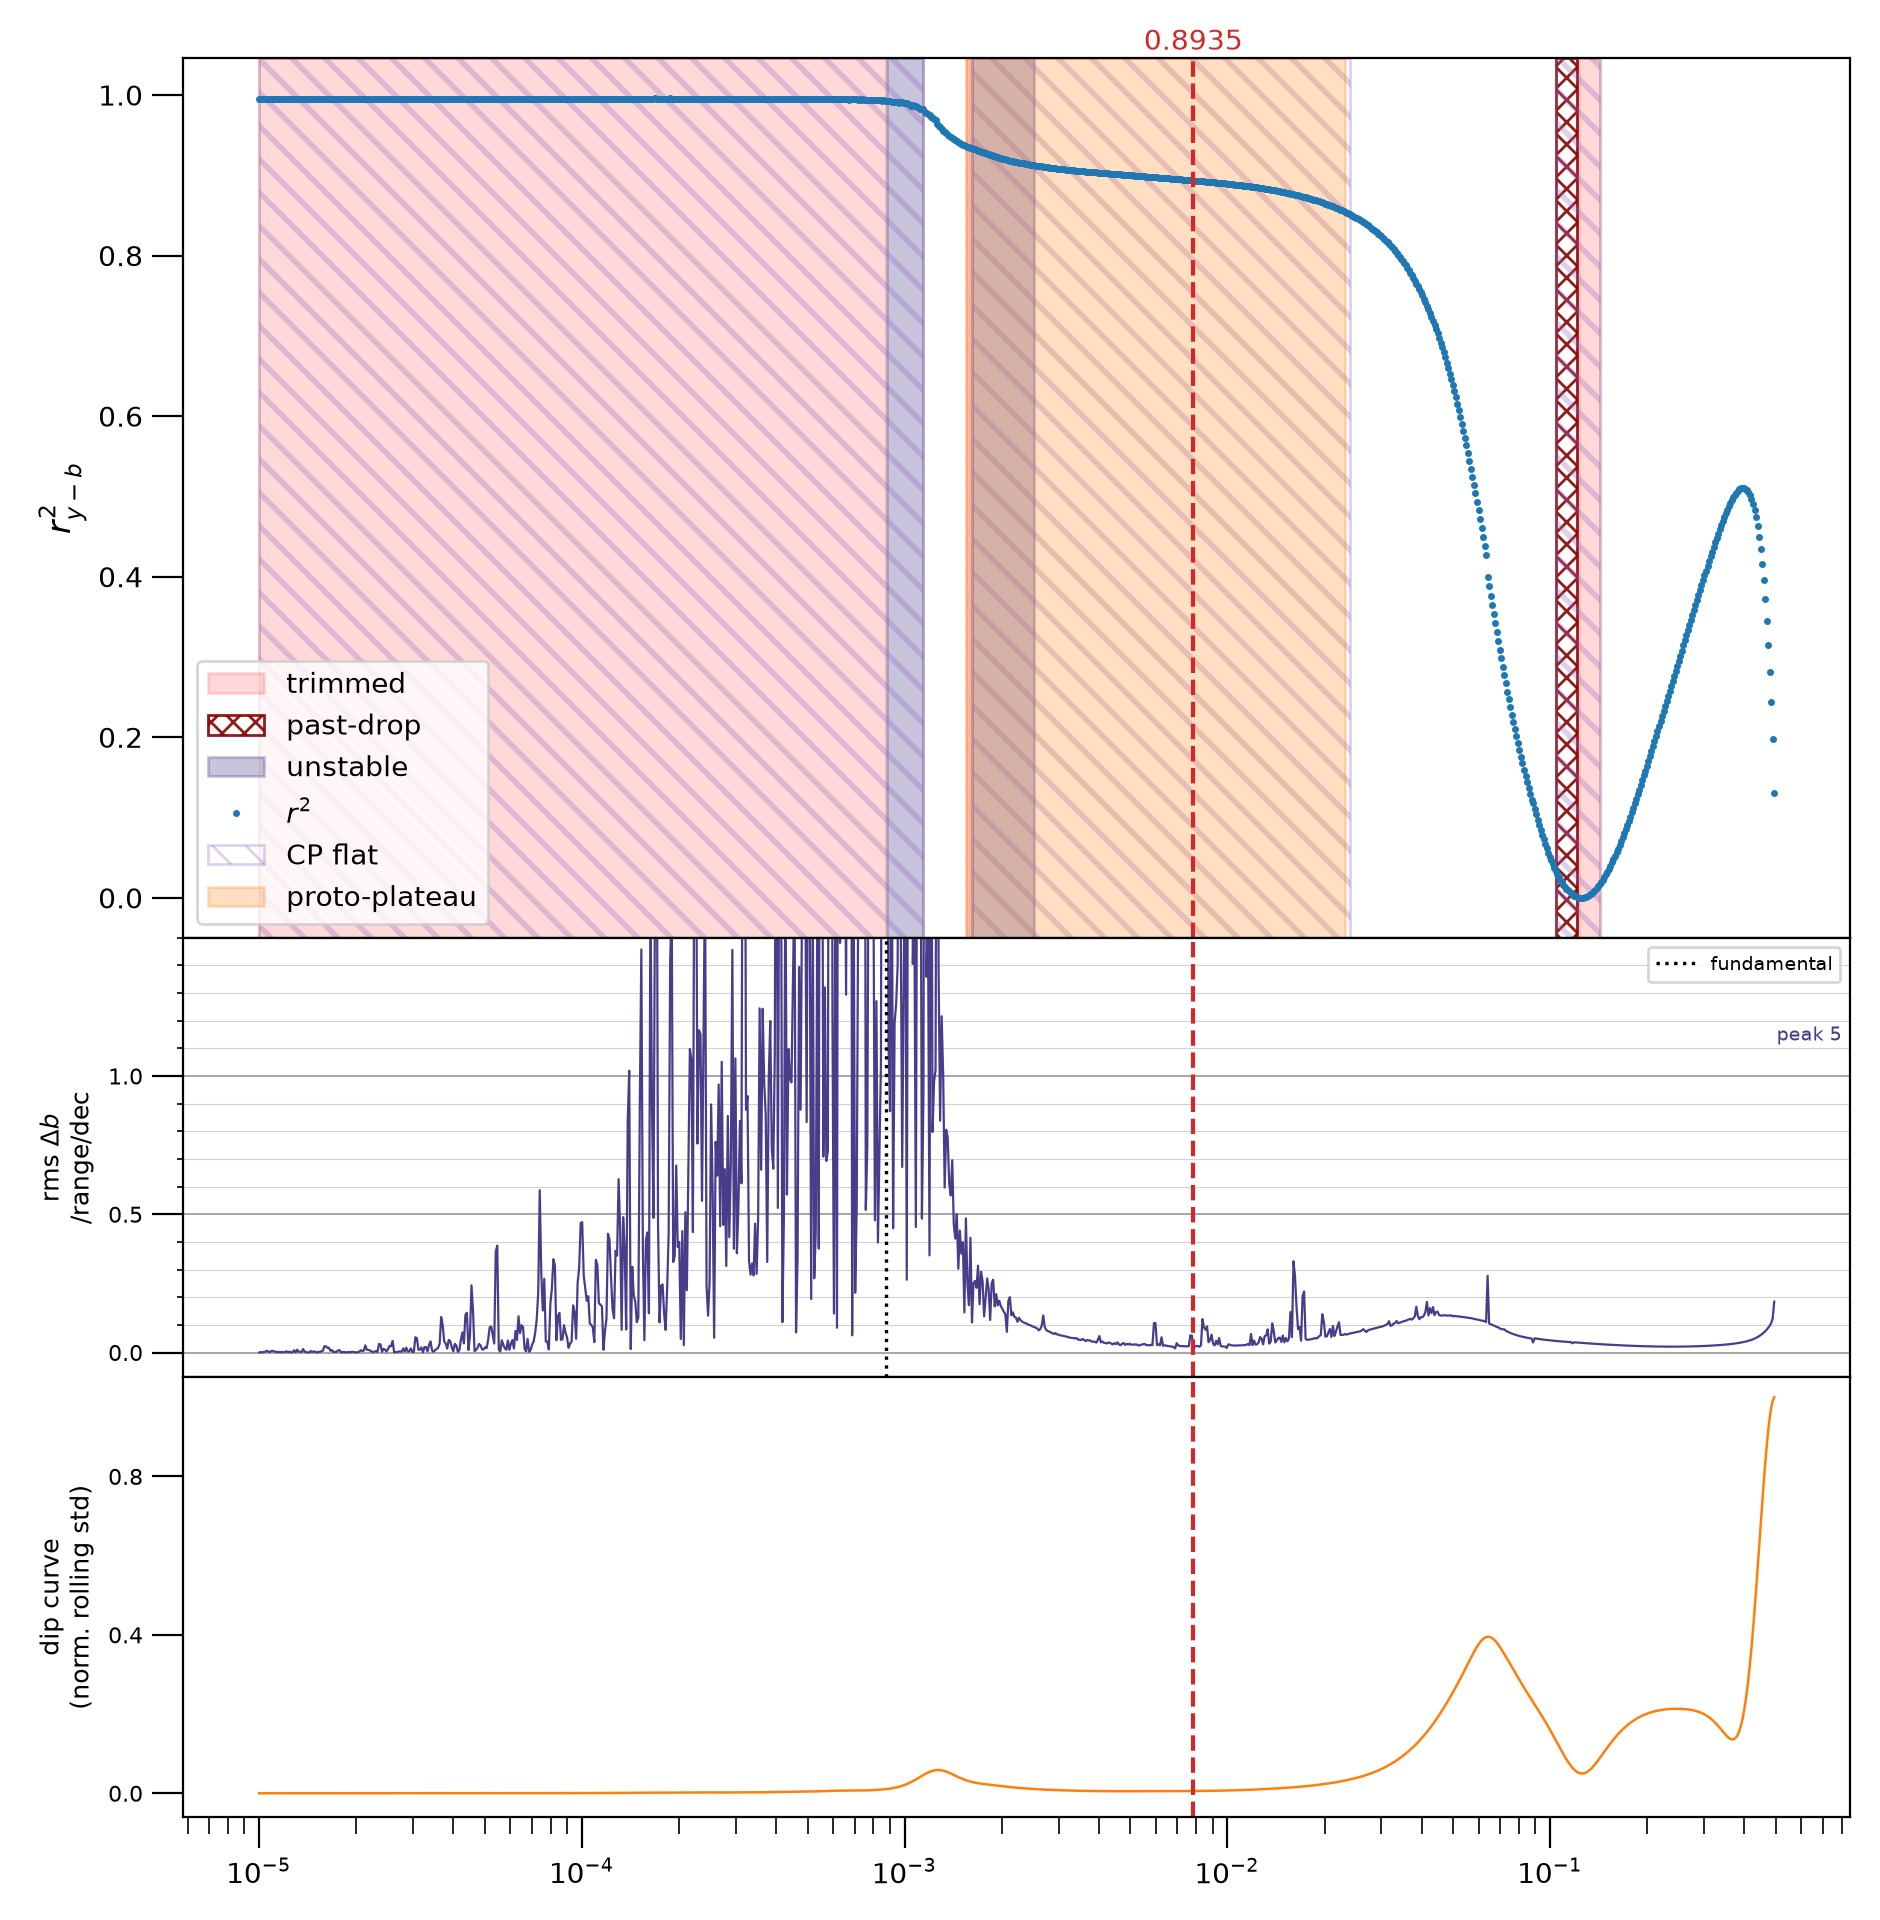
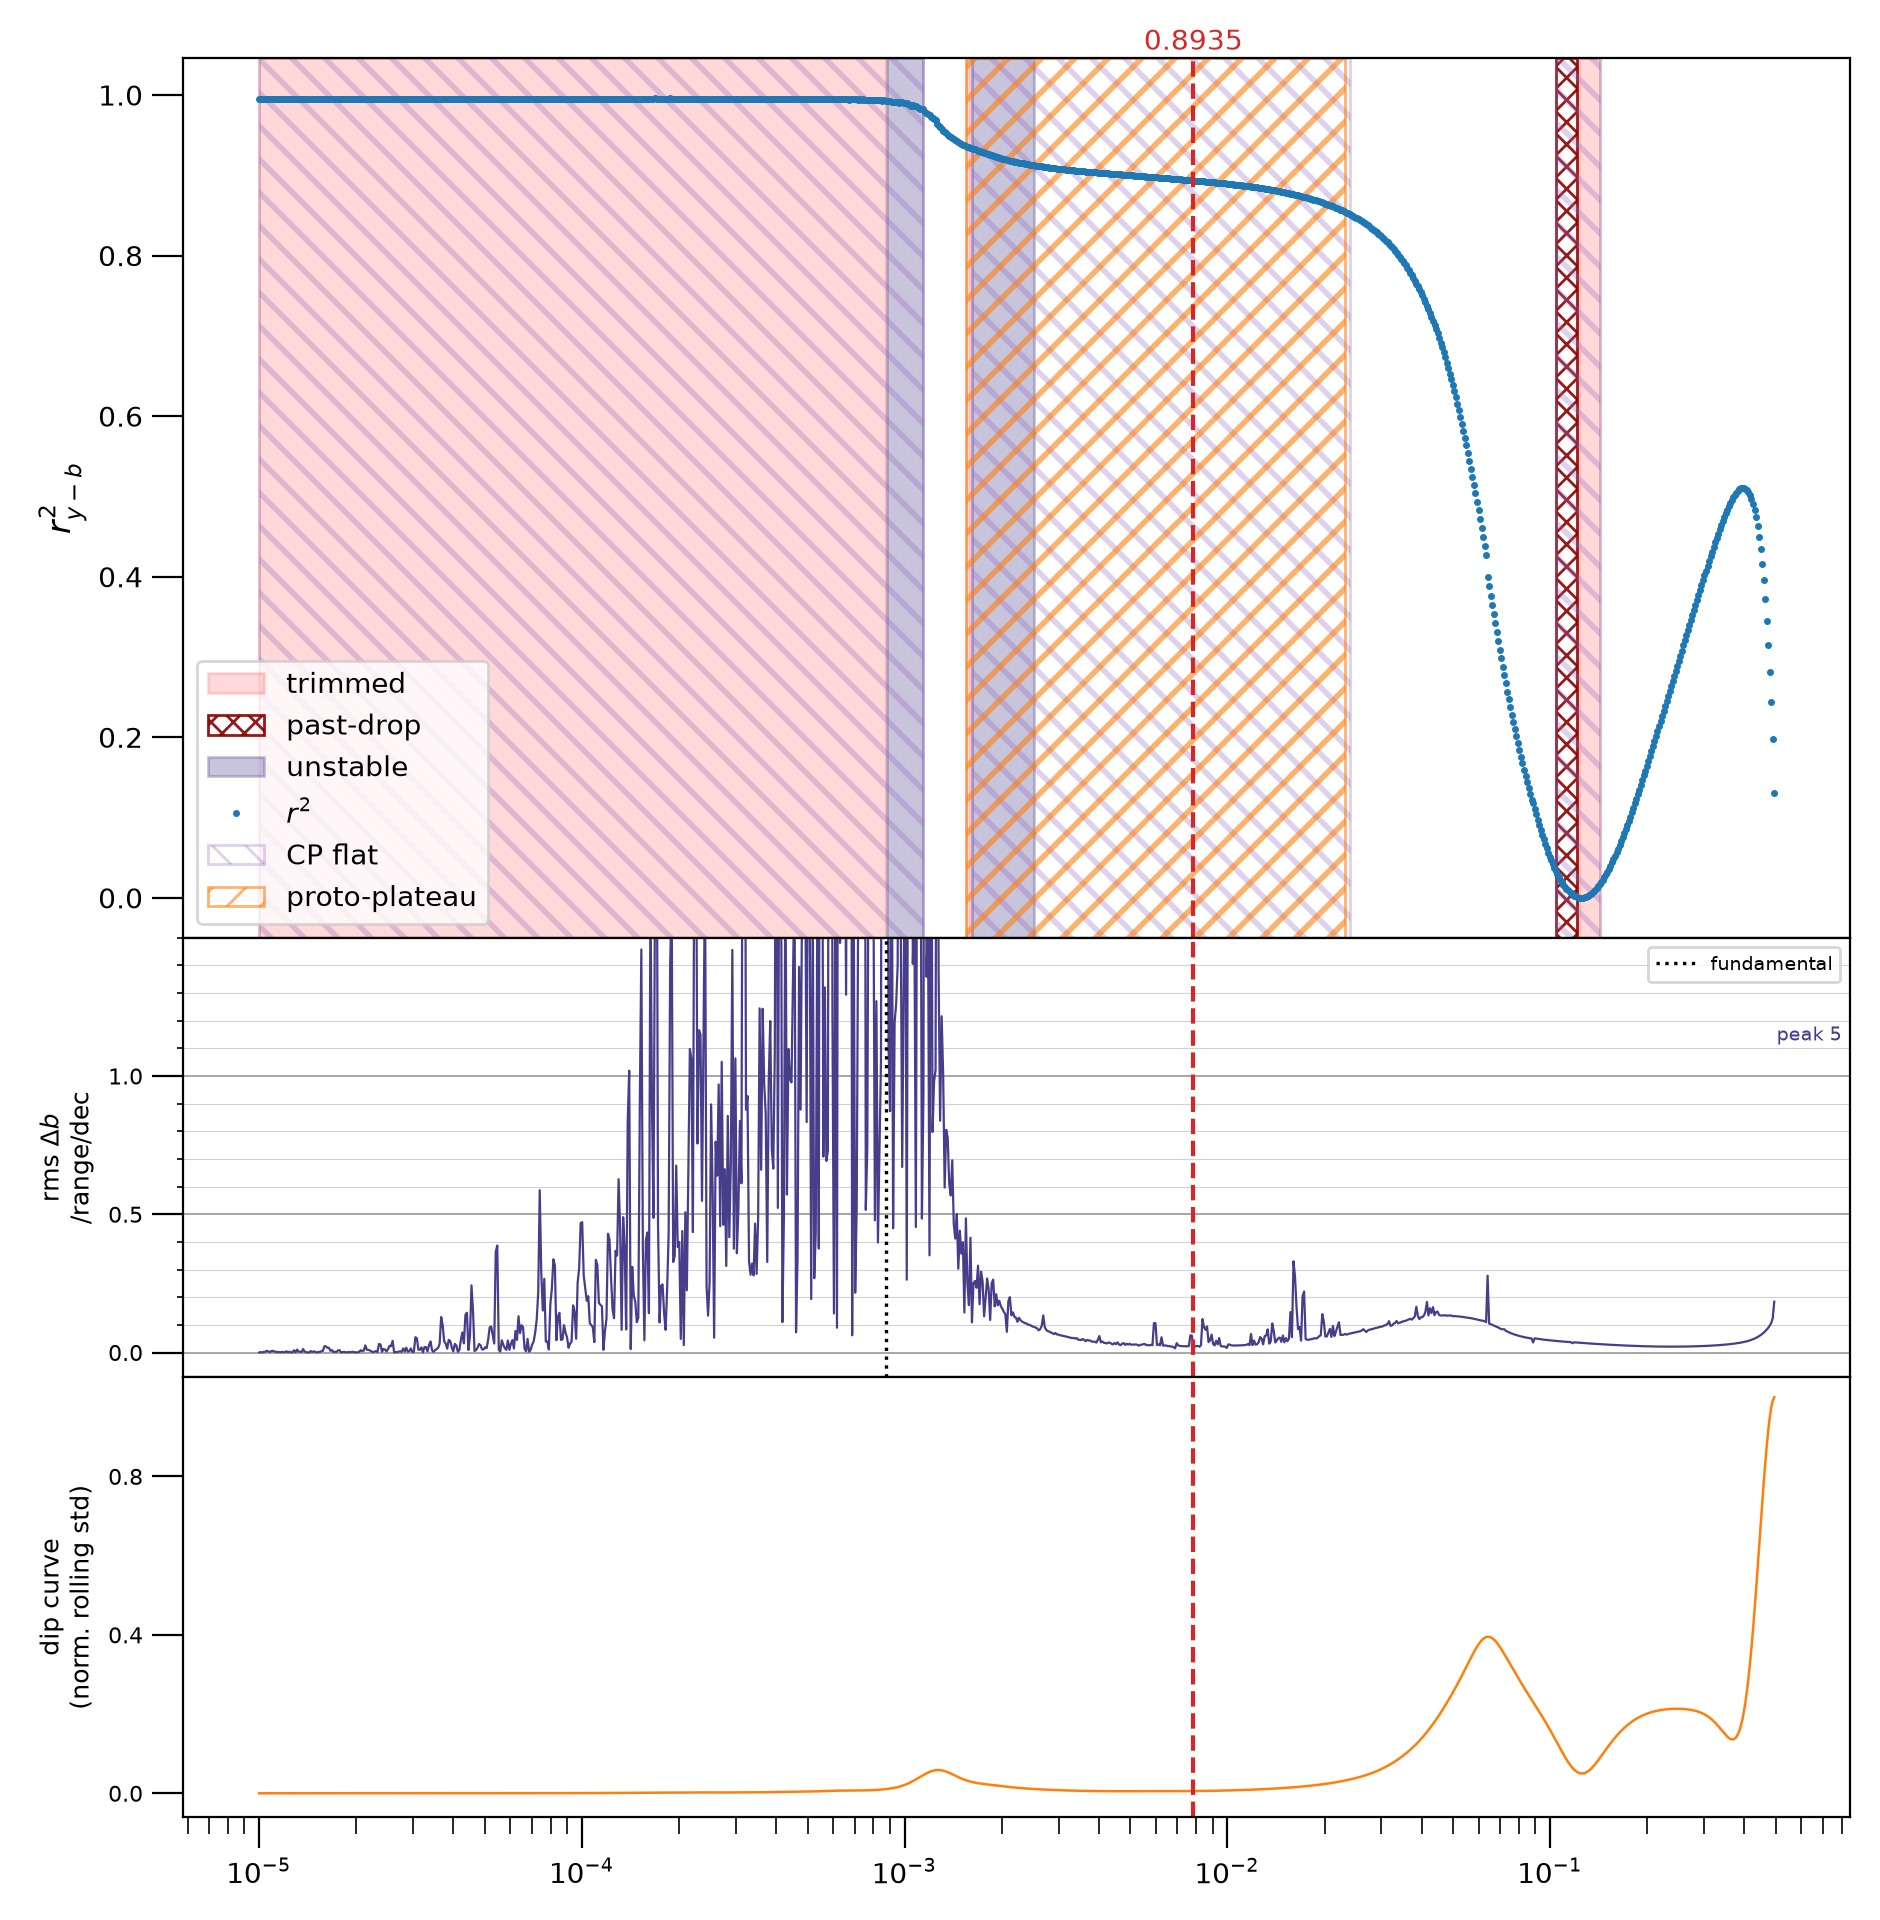
STYLE: Hatch the proto-plateaus so a removal beneath keeps its colour
The orange fill mixed with the trimmed and unstable fills into colours
the legend does not show. Proto-plateaus are now an orange "//" hatch,
the opposite slant of the CP flat hatch, so the two stay readable
where they overlap. The cp_flat docstring, which still described a
blue fill, is corrected, and the diagnostic figure re-rendered.

Changed region(s): [[0.4936, 0.0312, 0.7404, 0.5], [0.1234, 0.4375, 0.1543, 0.4688]]

diff --git a/weaselytics/plot.py b/weaselytics/plot.py
@@ -181,7 +181,7 @@ def r2_plots(x: np.ndarray, r2: np.ndarray, dip_curve: np.ndarray,
         (``segmentation.dip_curve``): the rolling standard deviation of
         `r2`, Gaussian-smoothed and normalised to its own maximum.
         ``detect_dips`` marks proto-plateaus at its local minima, so the
-        orange basins above line up with the dips of this panel.
+        orange hatching above lines up with the dips of this panel.
     freq_cutoff : float or None
         Frequency cutoff. None when stage 2 left no region to select
         from: no cutoff line is drawn, and "no surviving region" is
@@ -190,15 +190,16 @@ def r2_plots(x: np.ndarray, r2: np.ndarray, dip_curve: np.ndarray,
         Value of `r2` at `freq_cutoff`. None when `freq_cutoff` is.
     cp_flat : array-like, shape (N,), dtype bool, optional
         Mask of the full flat set from ``segmentation.classify_segments``
-        (before any trimming), drawn as a light solid blue fill beneath
-        the candidate hatching so the two can be compared. Default is
-        None, which disables the overlay.
+        (before any trimming), drawn as a light purple ``\\`` hatch.
+        Default is None, which disables the overlay.
     cp_dips : array-like, shape (N,), dtype bool, optional
         Mask of the proto-plateau basins from ``segmentation.detect_dips``
         (the relative flattenings the flat test misses), drawn as an
-        orange fill. Together with ``cp_flat`` this shows the detected
-        plateau selection (their union) with its provenance. Default is
-        None, which disables the overlay.
+        orange ``//`` hatch, the opposite slant of ``cp_flat``, so the
+        two stay readable where they overlap and a removal fill beneath
+        keeps its colour. Together with ``cp_flat`` this shows the
+        detected plateau selection (their union) with its provenance.
+        Default is None, which disables the overlay.
     cp_removed : array-like, shape (N,), dtype bool, optional
         Mask of the detected plateaus/proto-plateaus removed by the
         stage-1 trimming, drawn as a red fill. Default is None, which
@@ -295,12 +296,15 @@ def r2_plots(x: np.ndarray, r2: np.ndarray, dip_curve: np.ndarray,
                             hatch="\\\\", hatch_linewidth=2,
                             label='CP flat',
                             transform=axs[0].get_xaxis_transform())
-    # Proto-plateaus from detect_dips, orange fill: the union of this and
-    # the flat set is the detected plateau selection.
+    # Proto-plateaus from detect_dips, hatched orange on the opposite
+    # slant of the flat set: the union of the two is the detected plateau
+    # selection. See `_HATCH_NOTE` for the facecolor/edgecolor form.
     if cp_dips is not None:
         axs[0].fill_between(x, 0, 1,
                             where=cp_dips,
-                            color="tab:orange", alpha=0.25,
+                            facecolor="none",
+                            edgecolor=to_rgba("tab:orange", 0.6),
+                            hatch="//", hatch_linewidth=2,
                             label='proto-plateau',
                             transform=axs[0].get_xaxis_transform())
     # Middle panel: the baseline-sensitivity curve, on a LINEAR y-axis.
